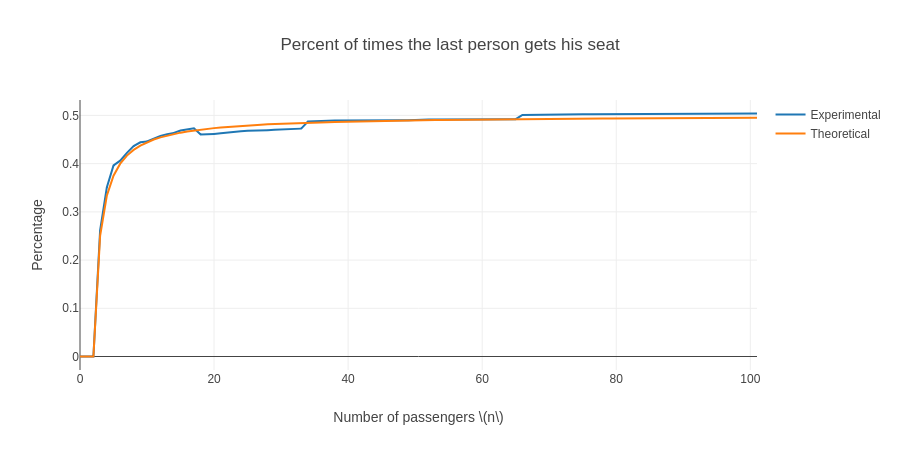
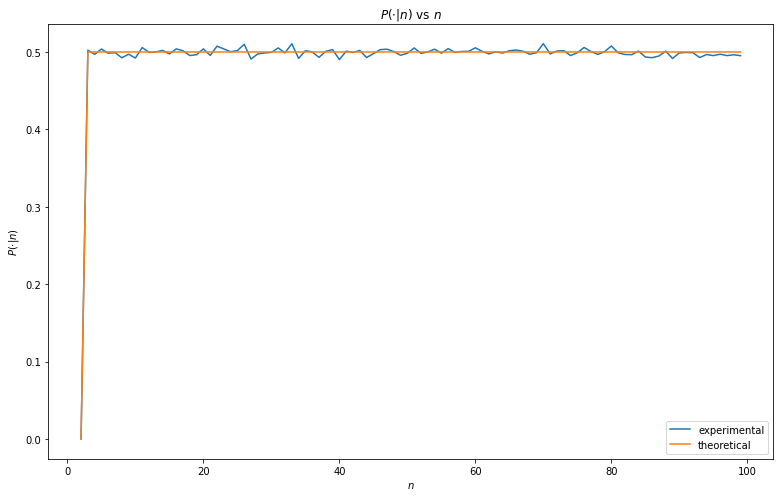
fixed mistake in riddle n-people-on-a-plane

diff --git a/_posts/2018-06-10-n_people_on_a_plane.md b/_posts/2018-06-10-n_people_on_a_plane.md
@@ -33,28 +33,68 @@ You need to find out what the probability that the last person gets to sit in hi
 ## A solution
 
 ### A description
-\\[ \mathbb{P}\left(\cdot | n\right) = \frac{n-2}{2(n-1)} \\]
-{: .hint}
+<div class="hint" markdown="1">
+if $n > 2$, then
+
+$$ \mathbb{P}\left(\cdot | n\right) = \frac{1}{2} $$
+
+If $n = 2$, then $\mathbb{P}\left(\cdot | 2\right) = 0$.
+</div>
 
 
-### The strategy
+### The explanation
 <div class='hint' markdown='1'>
-Firstly, if $n = 1$, the game is ill defined, if $n=2$, the probability is 0 (because the first person always takes the wrong seat). If $n>2$, then:
-
-There's a $\frac{1}{n-1}$ chance that the first person takes the last person's seat, thereby sealing the eternal aerial fate of the last boarder. So there's a $\frac{n-2}{n-1}$ chance that the first jerk doesn't take the last shlemazel's seat. Every person after that either sits in their own seat (thereby not changing the odds for our lone hero of the skies), or sits in a random seat. When sitting in a random seat, they either:
+Firstly, if $n = 1$, the game is ill defined, if $n=2$, the probability is 0 (because the first person always takes the wrong seat). If $n>2$, then at every point the choices are,
 
 1. Sit in the first person's seat thereby closing the book on this whole debacle, assuring the vacancy of the posterior protector for our helpless late-boarder.
 1. They sit in the last person's seat, thereby ensuring their own place in hell along with our hero's long lost comfort that only comes from sitting in your very own assigned seat.
 1. Or they sit in someone else's seat, thereby passing the buck on to someone else and not changing the results at all.
 
-So, there's a 50/50 shot (once we get past the first person, and assuming $n>2$).
-
-To summarize: there's a $\frac{n-1}{n-2}$ probability that the last person's seat is open after the first person takes a seat, then every turn after that has an equal probability of ending the game in a positive or a negative way. So the end formula is
-\\[ \mathbb{P}\left(\cdot | n\right) = \frac{n-2}{n-1}\cdot\frac{1}{2} = \frac{n-2}{2(n-1)} \\]
+So it's either 50/50, or it's postponed with the same choices later. So it's 50/50 in the end.
 </div>
 
 ### The experiment
 
-I essentially played this game 10,000 times for each $n$ between 3 and 100, then plotted the mean for a particular $n$ vs that $n$, along with our theoretical value derived kinda loosely above.
+<div class="hint" markdown="1">
+
+I essentially played this game 10,000 times for each $n$ between 2 and 100, then plotted the mean for a particular $n$ vs that $n$, along with our theoretical value derived kinda loosely above.
+
+```python
+import pandas as pd
+import numpy as np
+import matplotlib.pyplot as plt
+from numba import jit, prange
+np.random.seed(1234)
+
+@jit("int8(int16)", nopython=True)
+def play(n):
+    for i in range(n - 1, 1, -1):
+        new = np.random.randint(0, i)
+        if new == i - 1:
+            return 1
+        elif new == 0:
+            return 0
+    return 0
+
+@jit("float32(int16,int32)")
+def play_n(n, b):
+    running_sum = 0
+    running_num = 0
+    for _ in prange(b):
+        running_sum = running_sum + play(n)
+        running_num += 1
+    return float(running_sum / running_num)
+
+result = {i: play_n(i, 10000) for i in range(2, 100)}
+df = pd.DataFrame({'experimental': pd.Series(result)})
+
+df['theoretical'] = pd.Series({k: 1/2 if k > 2 else 0 for k in df.index})
+
+plt.figure(figsize=(13,8))
+df.plot(ax=plt.gca(), title='$P(\cdot | n)$ vs $n$')
+plt.xlabel('$n$')
+plt.ylabel('$P(\cdot | n)$');
+```
+
 ![percentage plot](/assets/images/2018/06/10_percentagePlot.png)
-{: .hint}
+</div>
